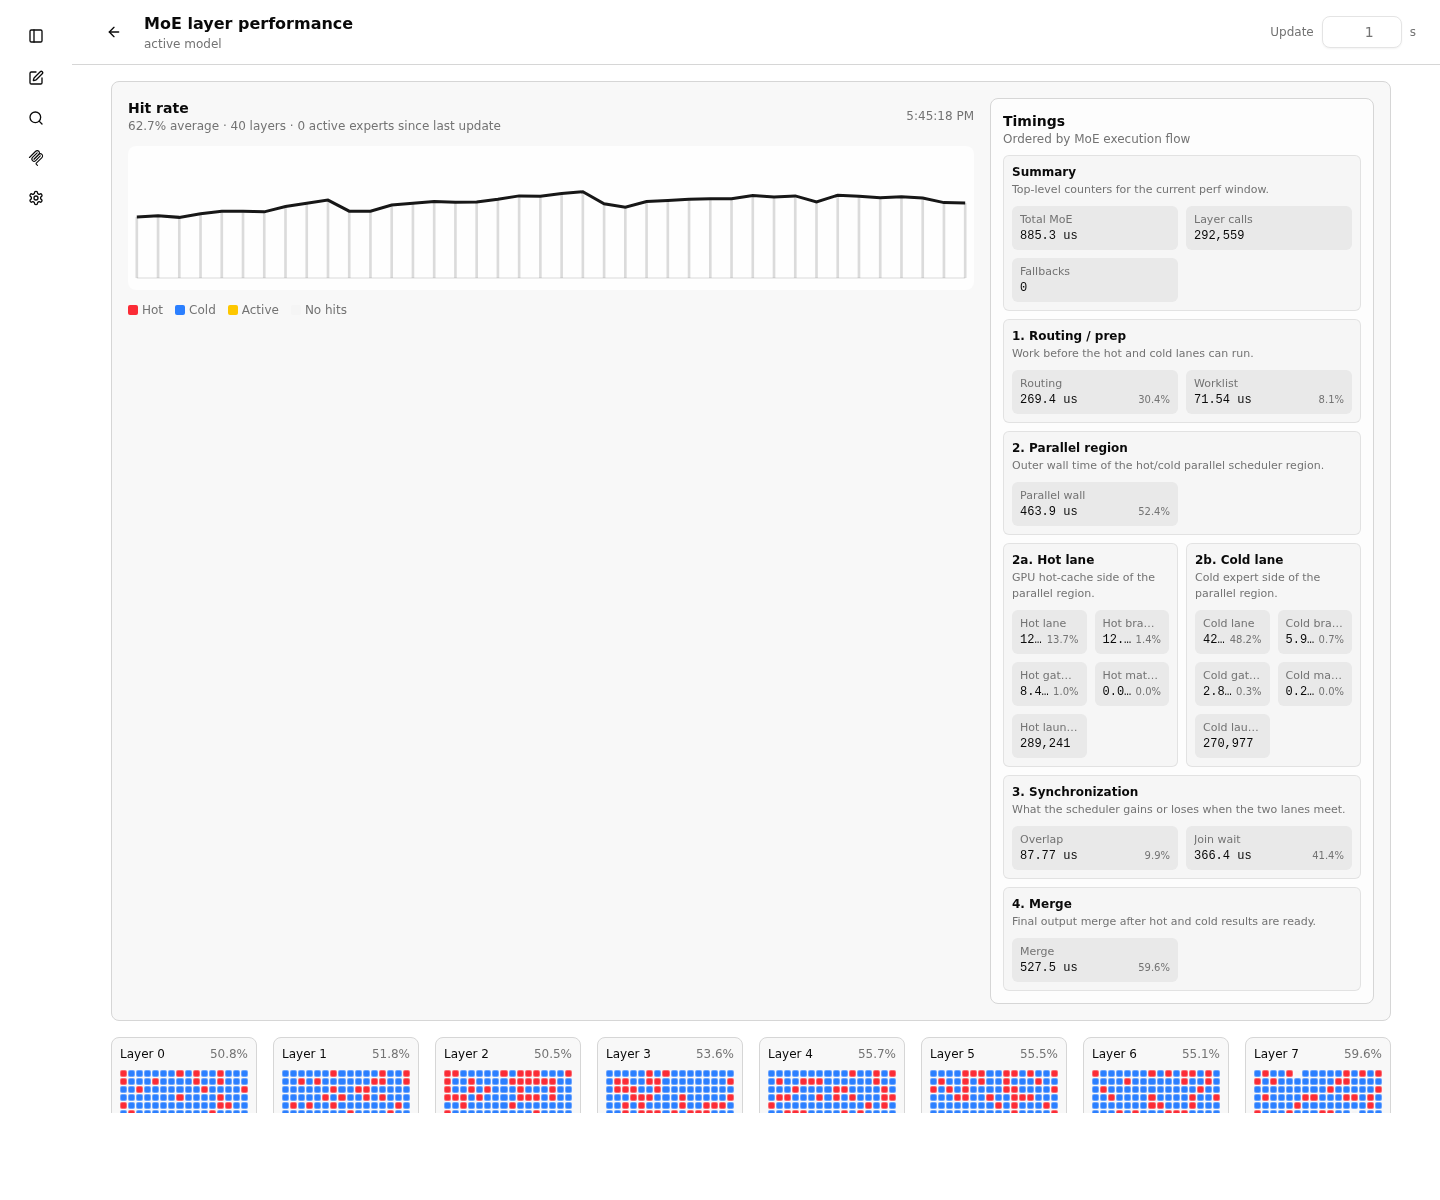
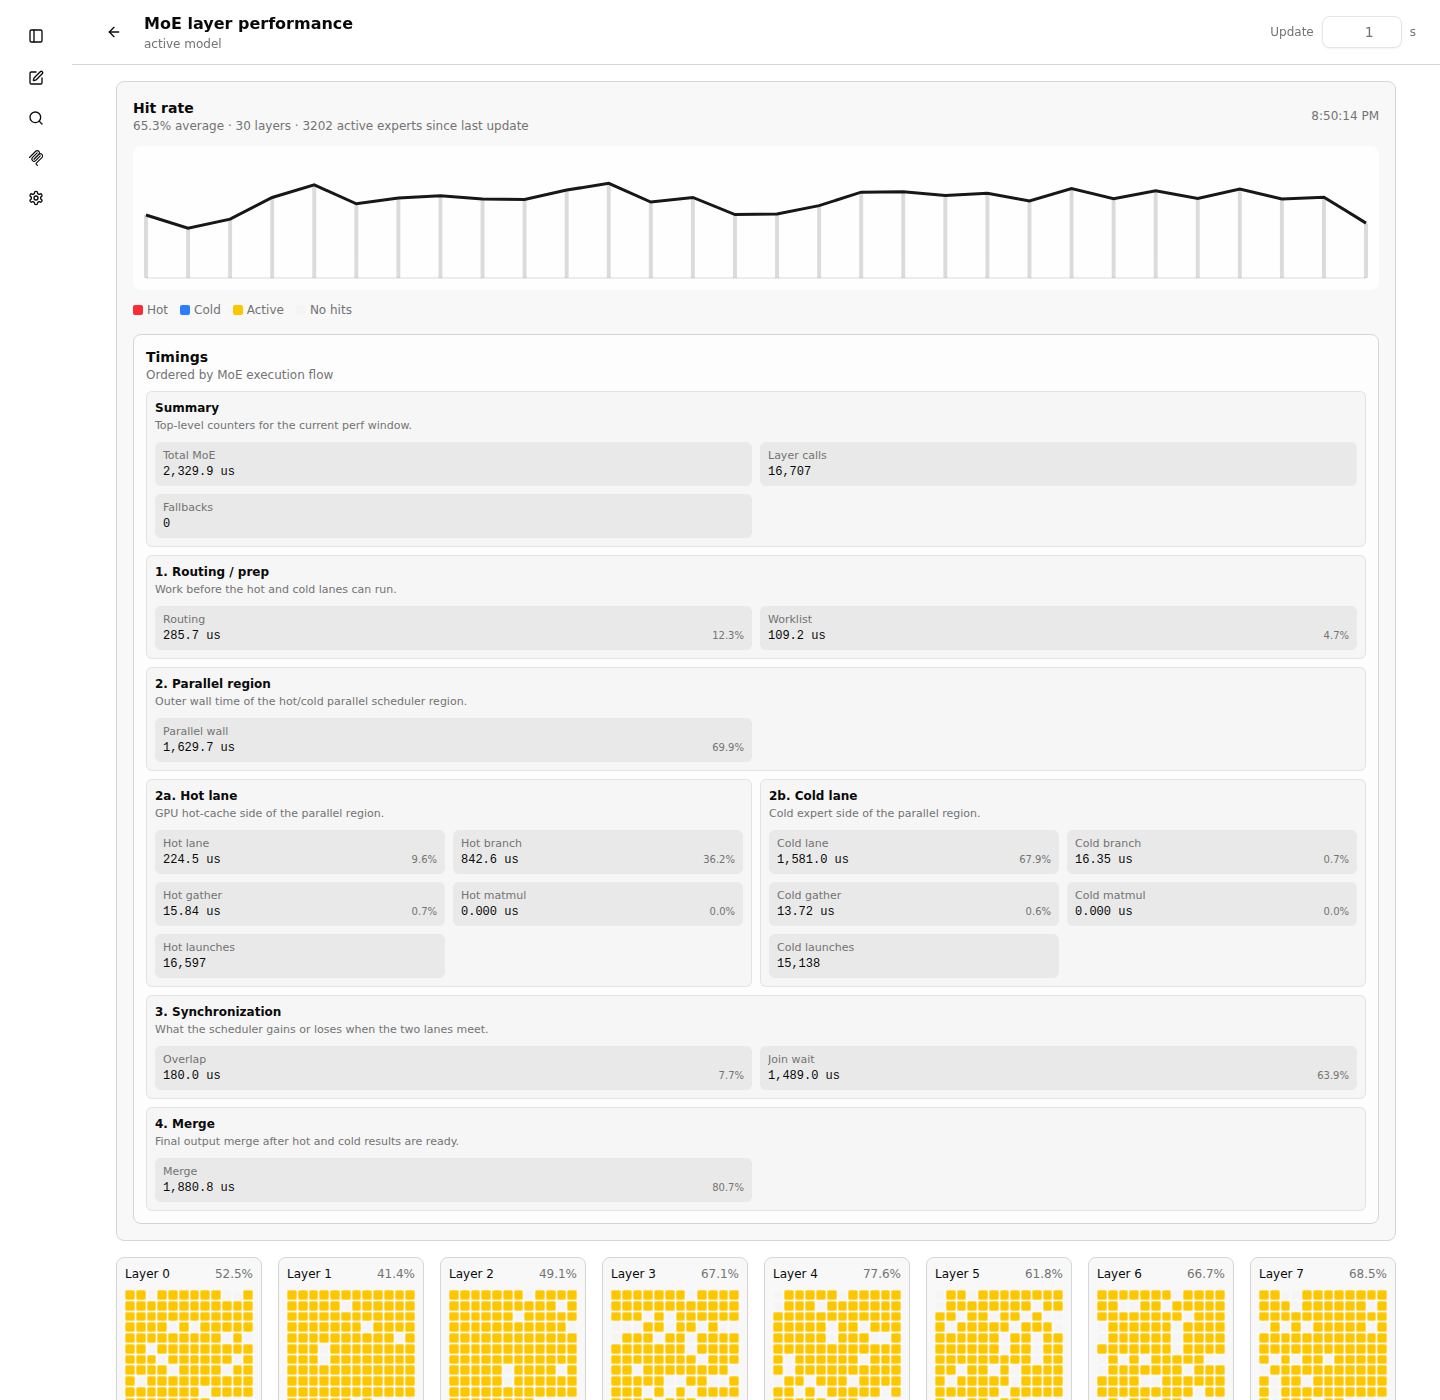
Update MoE layer performance layout
Move the Timings panel below the hit-rate graph to avoid unused horizontal space
  on the layer performance page. Refresh the README screenshot and adjust the UI
  description to match the new visual order.

diff --git a/tools/ui/src/routes/moe-layer-perf/+page.svelte b/tools/ui/src/routes/moe-layer-perf/+page.svelte
@@ -625,7 +625,7 @@
 	<main class="min-h-0 flex-1 overflow-auto px-4 py-4 md:px-6">
 		<div class="mx-auto flex w-full max-w-7xl flex-col gap-4">
 			<section class="rounded-md border bg-muted-foreground/5 p-4">
-				<div class="grid gap-4 lg:grid-cols-[minmax(0,1fr)_minmax(18rem,24rem)]">
+				<div class="space-y-4">
 					<div class="min-w-0">
 						<div class="mb-3 flex flex-wrap items-center justify-between gap-2">
 							<div>

diff --git a/README.md b/README.md
@@ -53,7 +53,7 @@ The Web UI also has a live MoE layer performance page at `#/moe-layer-perf`. Ope
 - `Update`: only the counters required for dynamic hot-cache updates and hit-rate visualization.
 - `Off`: MoE perf counters are disabled.
 
-When the server starts with `--no-perf`, the dropdown starts in `Off`. The same mode switch is available through `POST /moe-layer-perf` with `{"mode":"full"}`, `{"mode":"update"}`, or `{"mode":"off"}`. The page shows the per-layer hit-rate graph, hot/cold expert heatmaps, and timing groups ordered by the MoE execution flow.
+When the server starts with `--no-perf`, the dropdown starts in `Off`. The same mode switch is available through `POST /moe-layer-perf` with `{"mode":"full"}`, `{"mode":"update"}`, or `{"mode":"off"}`. The page shows the per-layer hit-rate graph, timing groups ordered by the MoE execution flow, and hot/cold expert heatmaps.
 
 ![MoE layer performance UI](docs/development/assets/moe-layer-perf-overview.png)
 